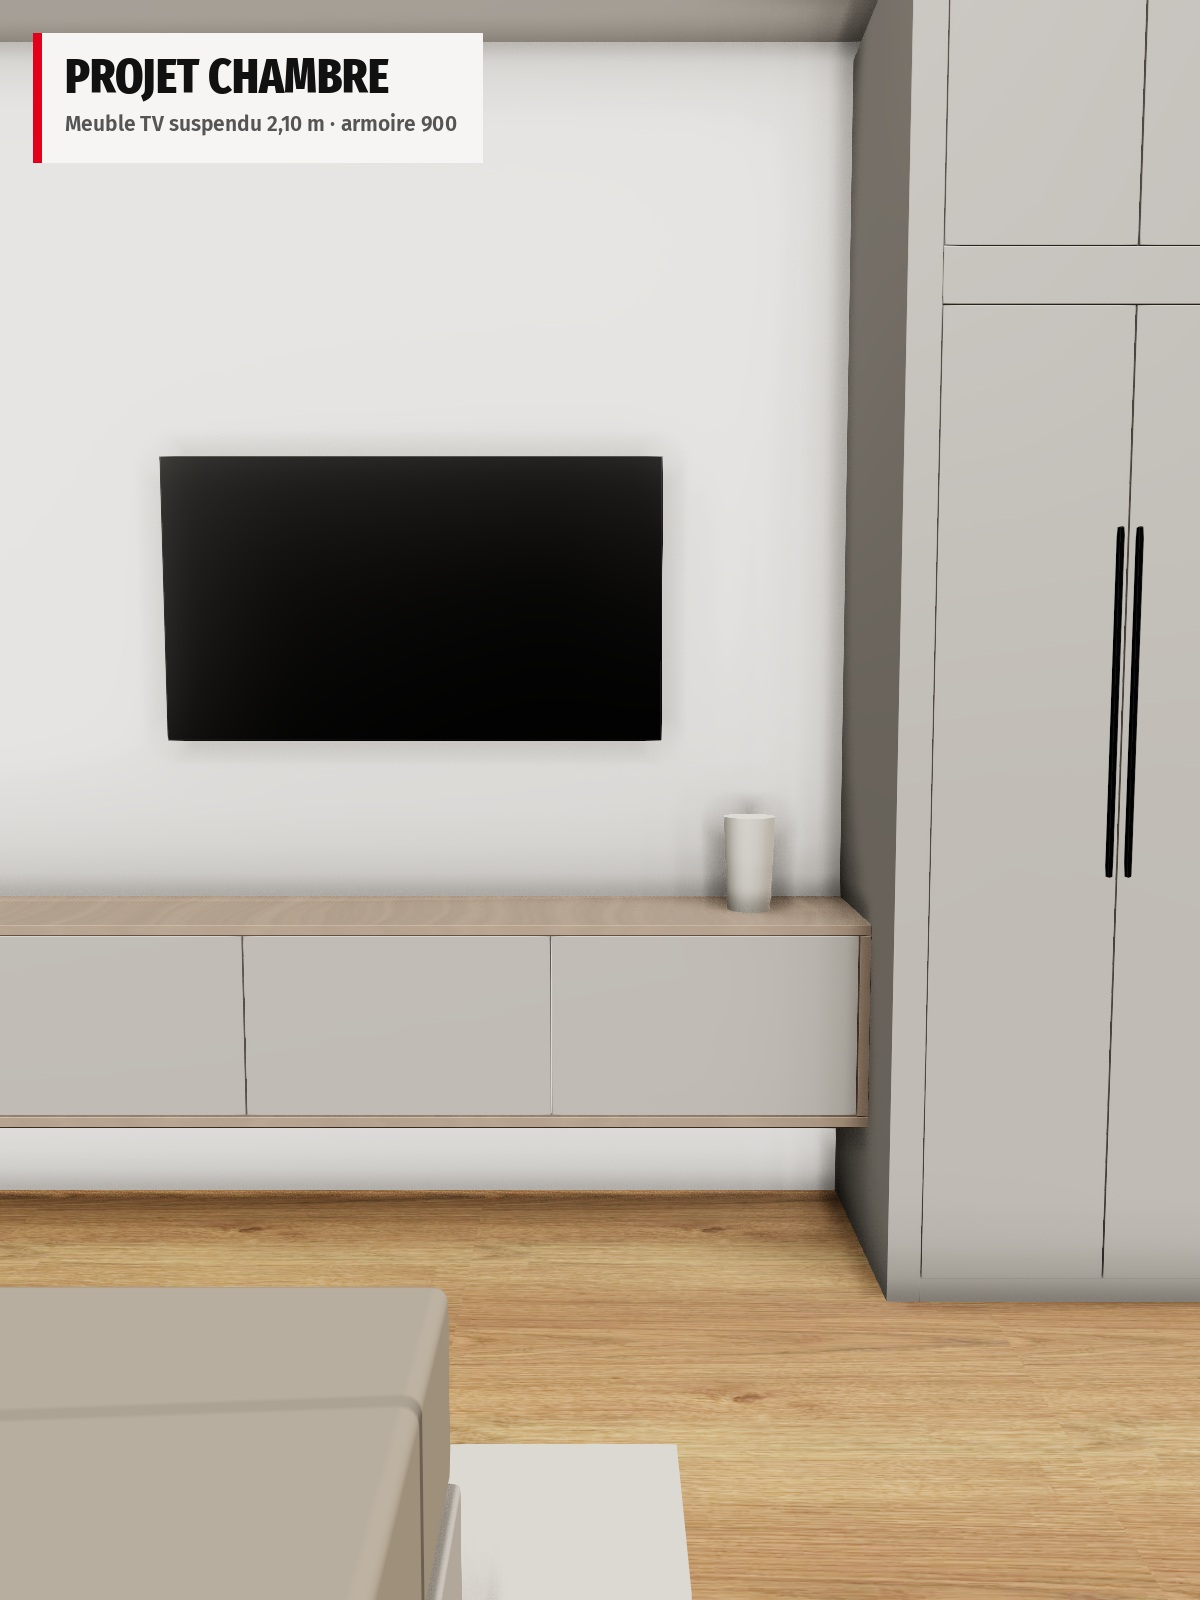
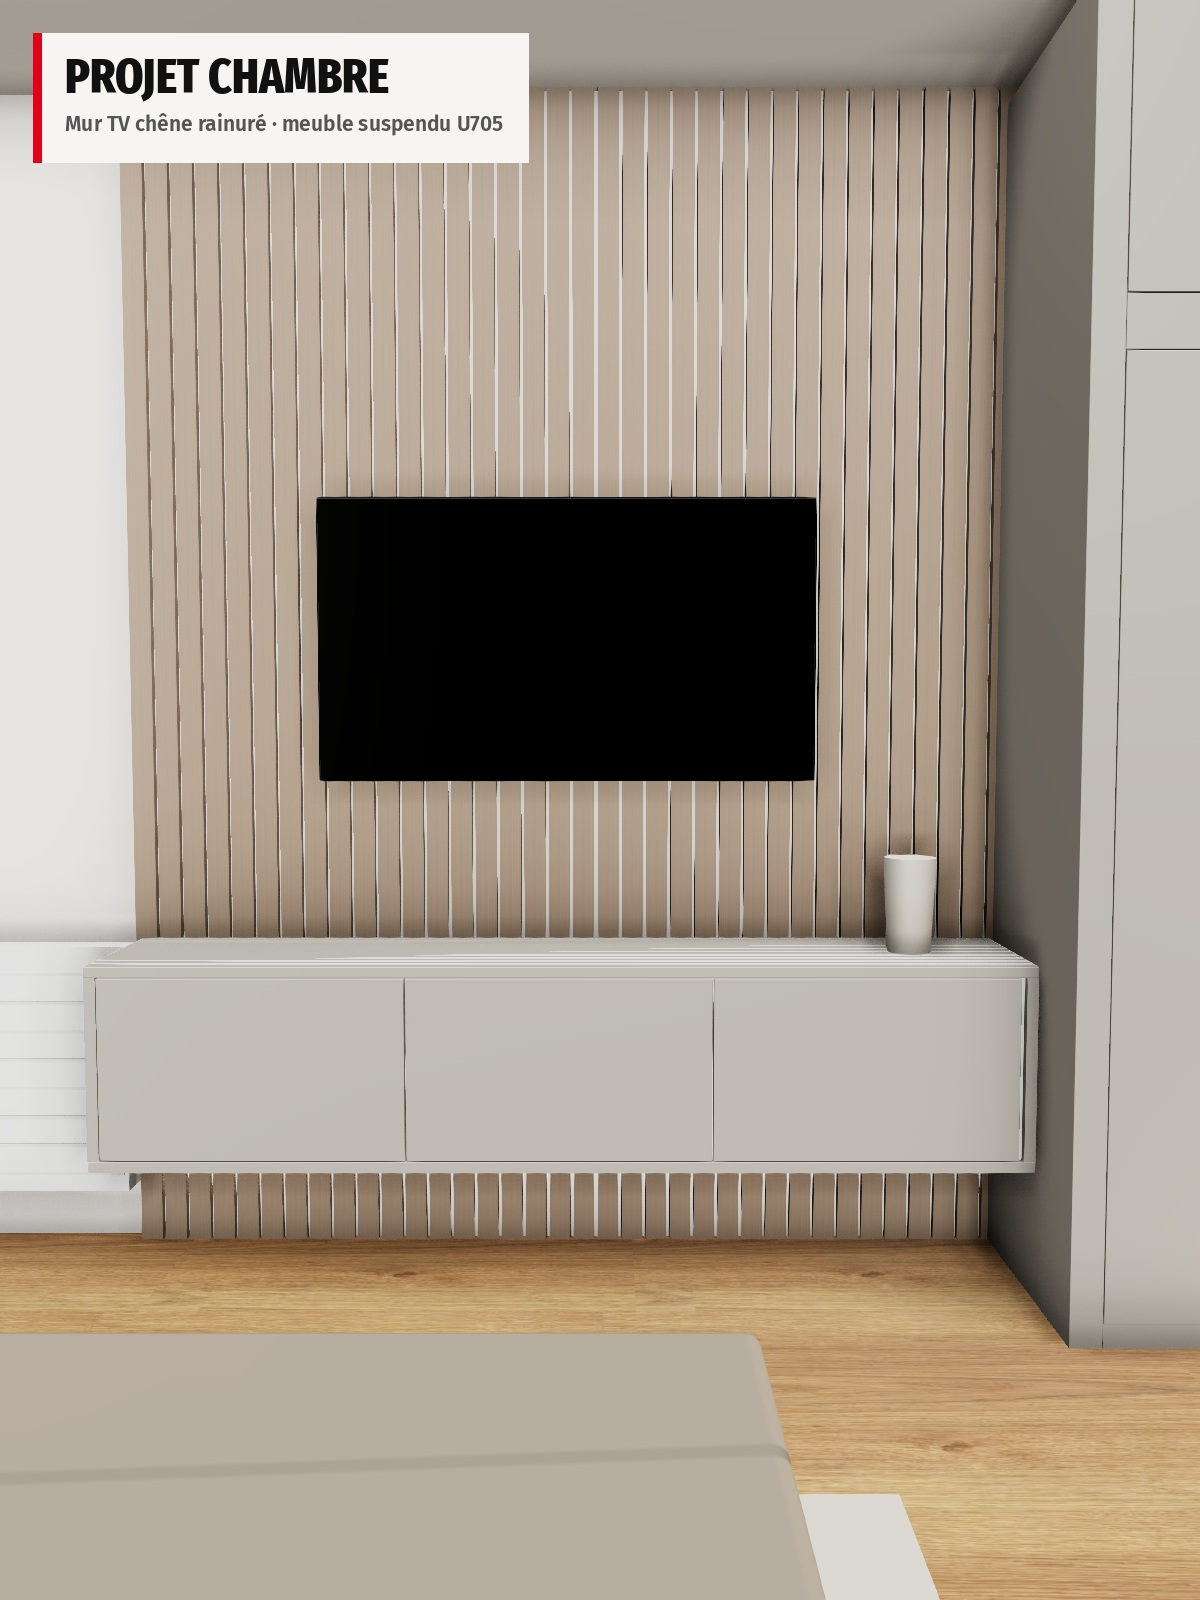
Chambre V2 niveau excellence (3D gratuite) : mur TV chêne rainuré, tête de lit murale + chevets niche, niche bureau, LED
Claude-Session: https://claude.ai/code/session_01XoeDEVkNFXq4oExWHbkpus

diff --git a/ads/meubles/chambre-H1357-U705/bedroom.html b/ads/meubles/chambre-H1357-U705/bedroom.html
@@ -103,45 +103,71 @@ frontPZ(AX0 + 70, AX0 + 450, y1, y2, AD, M.u705); frontPZ(AX0 + 450, XR - 70, y1
 frontPZ(AX0 + 70, AX0 + 450, y3, y4, AD, M.u705); frontPZ(AX0 + 450, XR - 70, y3, y4, AD, M.u705);
 bx(AX0 + 425, 900, AD + T, AX0 + 437, 1600, AD + T + 16, M.noir, 3); bx(AX0 + 463, 900, AD + T, AX0 + 475, 1600, AD + T + 16, M.noir, 3);
 
-// ---------- MEUBLE TV 2100 (suspended), x AX0-2100 .. AX0, depth 400 ----------
-const TX0 = AX0 - 2100, TD = 400, TY0 = 300, TY1 = 760;
-bx(TX0 + 25, TY0 + 25, 0, AX0 - 25, TY1 - 25, TD - 25, M.caisson);
-bx(TX0, TY1 - 25, 0, AX0, TY1, TD, M.oak, 2);                  // oak top
-bx(TX0, TY0 + 25, 0, TX0 + 25, TY1 - 25, TD, M.oak, 2); bx(AX0 - 25, TY0 + 25, 0, AX0, TY1 - 25, TD, M.oak, 2);
-bx(TX0, TY0, 0, AX0, TY0 + 25, TD, M.oak, 2);
-for (let k = 0; k < 3; k++) frontPZ(TX0 + 25 + k * 683.3, TX0 + 25 + (k + 1) * 683.3, TY0 + 25, TY1 - 25, TD - 25 - T + T, M.u705);
-// TV
-bx(TX0 + 450, 1150, 30, TX0 + 1650, 1830, 70, M.ecran, 4);
-const v1 = new THREE.Mesh(new THREE.CylinderGeometry(60, 50, 220, 32), new THREE.MeshStandardMaterial({ color: 0xe5ded2, roughness: 0.5 })); v1.position.set(TX0 + 1850, TY1 + 110, 200); v1.castShadow = true; G.add(v1);
+// LED material (warm indirect light lines)
+const LED = new THREE.MeshBasicMaterial({ color: 0xffd9a8 });
+const ledLight = (x, y, z, k = 40000, d = 1400) => { const p = new THREE.PointLight(0xffc98a, k, d, 2); p.position.set(x, y, z); sc.add(p); };
 
-// ---------- BED 1800 x 2000, headboard on bottom wall, + nightstands 500 ----------
+// ---------- TV WALL: full-height fluted oak panel H1357 + floating TV unit all U705 ----------
+const TX0 = AX0 - 2100, TD = 400, TY0 = 300, TY1 = 760;
+bx(TX0 - 20, 0, 0, AX0, CEIL, 18, M.caisson, 0, { cast: false });                         // panel backing
+for (let x = TX0 - 20; x < AX0; x += 60) bx(x + 4, 0, 18, x + 56, CEIL, 38, M.oak, 0, { cast: false }); // vertical oak flutes
+bx(TX0, TY0, 38, AX0 - 10, TY1, TD, M.caisson);
+bx(TX0, TY1 - 25, 38, AX0 - 10, TY1, TD + T, M.u705, 2);                   // U705 top
+bx(TX0, TY0, 38, AX0 - 10, TY0 + 25, TD + T, M.u705, 2);                   // U705 bottom
+bx(TX0, TY0 + 25, 38, TX0 + 25, TY1 - 25, TD + T, M.u705); bx(AX0 - 35, TY0 + 25, 38, AX0 - 10, TY1 - 25, TD + T, M.u705);
+for (let k = 0; k < 3; k++) frontPZ(TX0 + 25 + k * 676.7, TX0 + 25 + (k + 1) * 676.7, TY0 + 25, TY1 - 25, TD, M.u705);
+bx(TX0 + 40, TY0 - 6, 120, AX0 - 50, TY0 - 2, 300, LED, 0, { cast: false });              // LED under floating unit
+for (let x = TX0 + 300; x < AX0; x += 600) ledLight(x, TY0 - 60, 250, 25000, 900);
+// TV
+bx(TX0 + 450, 1150, 40, TX0 + 1650, 1830, 80, M.ecran, 4);
+const v1 = new THREE.Mesh(new THREE.CylinderGeometry(60, 50, 220, 32), new THREE.MeshStandardMaterial({ color: 0xe5ded2, roughness: 0.5 })); v1.position.set(TX0 + 1850, TY1 + 110, 220); v1.castShadow = true; G.add(v1);
+// plinth LED under the 2490 wardrobe and the 900 armoire
+bx(WD - 10, 30, z0 + 75, WD + 4, 42, ZB - 75, LED, 0, { cast: false });
+bx(AX0 + 75, 30, AD - 10, XR - 75, 42, AD + 4, LED, 0, { cast: false });
+ledLight(WD + 200, 120, 2500, 30000, 1200); ledLight(AX0 + 450, 120, AD + 200, 20000, 900);
+
+// ---------- BED 1800 x 2000 + full-width headboard wall (bed + nightstands) ----------
 const BX0 = 2400, BX1 = 4200, BZ1 = ZB, BZ0 = ZB - 2000;
-bx(BX0, 0, BZ0, BX1, 320, BZ1 - 60, M.u705, 8);                         // bed base U705
-bx(BX0 + 30, 320, BZ0 + 30, BX1 - 30, 560, BZ1 - 80, M.linge, 30);      // mattress + duvet
-bx(BX0 + 10, 330, BZ0 + 10, BX1 - 10, 580, BZ0 + 650, M.plaid, 20);     // throw at foot
-for (const x of [BX0 + 120, BX0 + 940]) bx(x, 560, BZ1 - 520, x + 740, 740, BZ1 - 120, M.coussin, 60);
-bx(BX0 - 60, 0, ZB - 80, BX1 + 60, 1150, ZB, M.oak, 6);                 // oak headboard
-for (let x = BX0; x < BX1; x += 225) bx(x + 4, 380, ZB - 92, x + 221, 1120, ZB - 78, M.oak, 4);   // vertical oak ribs
-// nightstands 500 (U705 drawer, oak top), posés
-for (const nx of [BX0 - 520, BX1 + 20]) {
-  bx(nx, 0, ZB - 420, nx + 500, 450, ZB - 20, M.caisson);
-  bx(nx, 450, ZB - 430, nx + 500, 475, ZB - 10, M.oak, 2);
-  frontNZ(nx + 5, nx + 495, 220, 445, ZB - 420 + 0, M.u705); // drawer (faces -z)
-  bx(nx + 5, 0, ZB - 420, nx + 495, 60, ZB - 405, M.oak);
-  bx(nx + 200, 330, ZB - 440 - T, nx + 300, 342, ZB - 428 - T, M.noir, 2);
-  const lamp = new THREE.Mesh(new THREE.CylinderGeometry(90, 110, 200, 32), new THREE.MeshStandardMaterial({ color: 0xfaf3e6, emissive: 0xffd9a0, emissiveIntensity: 0.6, roughness: 0.8 }));
-  lamp.position.set(nx + 250, 640, ZB - 220); G.add(lamp);
-  bx(nx + 240, 475, ZB - 230, nx + 260, 540, ZB - 210, M.noir);
-  const pl = new THREE.PointLight(0xffc98a, 50000, 1600, 2); pl.position.set(nx + 250, 650, ZB - 260); sc.add(pl);
+const HW0 = BX0 - 560, HW1 = BX1 + 560, HH = 1350;
+bx(HW0, 0, ZB - 40, HW1, HH, ZB, M.oak, 2);                                                // oak wall panel H1357
+for (let x = HW0 + 400; x < HW1 - 100; x += 466) bx(x - 3, 0, ZB - 44, x + 3, HH, ZB - 39, M.noir, 0, { cast: false }); // panel joints
+bx(HW0, HH, ZB - 60, HW1, HH + 20, ZB, M.oak, 2);                                          // top shelf/cap
+bx(HW0 + 20, HH - 4, ZB - 58, HW1 - 20, HH, ZB - 44, LED, 0, { cast: false });              // LED wash up the wall
+for (let x = HW0 + 300; x < HW1; x += 700) ledLight(x, HH + 80, ZB - 120, 22000, 1100);
+bx(BX0 - 20, 330, ZB - 120, BX1 + 20, 1150, ZB - 40, M.u705, 30);                          // upholstered U705 headboard
+bx(BX0, 0, BZ0, BX1, 320, BZ1 - 120, M.u705, 8);                                           // bed base U705
+bx(BX0 + 30, 320, BZ0 + 30, BX1 - 30, 560, BZ1 - 140, M.linge, 30);
+bx(BX0 + 10, 330, BZ0 + 10, BX1 - 10, 580, BZ0 + 650, M.plaid, 20);
+for (const x of [BX0 + 120, BX0 + 940]) bx(x, 560, BZ1 - 560, x + 740, 760, BZ1 - 160, M.coussin, 60);
+// wall sconces
+for (const sx of [HW0 + 280, HW1 - 280]) { bx(sx - 15, 1000, ZB - 60, sx + 15, 1060, ZB - 40, M.noir, 2); bx(sx - 35, 960, ZB - 170, sx + 35, 1030, ZB - 60, M.noir, 10); ledLight(sx, 950, ZB - 200, 30000, 1200); }
+// nightstands 500, posés: U705 drawer on top + open oak niche below (with LED)
+for (const nx of [BX0 - 540, BX1 + 40]) {
+  const nz0 = ZB - 460, nz1 = ZB - 40;
+  bx(nx, 0, nz0, nx + 19, 470, nz1, M.u705); bx(nx + 481, 0, nz0, nx + 500, 470, nz1, M.u705);   // sides
+  bx(nx + 19, 0, nz0, nx + 481, 60, nz1, M.u705);                                                 // base
+  bx(nx + 19, 60, nz1 - 19, nx + 481, 290, nz1, M.oak);                                           // niche back oak
+  bx(nx + 19, 60, nz0 + 40, nx + 481, 62, nz1 - 19, M.oak, 0, { cast: false });                    // niche floor oak
+  bx(nx + 30, 282, nz0 + 60, nx + 470, 286, nz1 - 40, LED, 0, { cast: false });                    // niche LED
+  ledLight(nx + 250, 200, nz0 + 120, 8000, 500);
+  bx(nx + 19, 290, nz0 + 19, nx + 481, 450, nz1, M.caisson);
+  frontNZ(nx + 21, nx + 479, 292, 448, nz0 + 19, M.u705);                                           // drawer
+  bx(nx + 190, 360, nz0 - 4, nx + 310, 372, nz0 + 2, M.noir, 2);
+  bx(nx, 450, nz0, nx + 500, 470, nz1, M.u705, 2);                                                 // top
+  const plant = new THREE.Mesh(new THREE.CylinderGeometry(55, 45, 120, 24), new THREE.MeshStandardMaterial({ color: 0xe6e0d6, roughness: 0.6 }));
+  plant.position.set(nx + 140, 530, nz0 + 200); plant.castShadow = true; G.add(plant);
+  const leaves = new THREE.Mesh(new THREE.SphereGeometry(110, 16, 12), new THREE.MeshStandardMaterial({ color: 0x5d7552, roughness: 0.8 }));
+  leaves.position.set(nx + 140, 660, nz0 + 200); leaves.scale.set(1, 0.8, 1); leaves.castShadow = true; G.add(leaves);
 }
 
-// ---------- DESK on right wall (front -x), z 2490..3750, depth 600 ----------
+// ---------- DESK niche on right wall: oak back panel + floating shelves with LED, U705 floating desk ----------
 const DZ0 = 2490, DZ1 = ZB, DD = 600, DXf = XR - DD;
-bx(DXf, 730, DZ0, XR, 768, DZ1, M.oak, 2);                                  // oak top 38
-bx(DXf + 20, 0, DZ0, XR, 730, DZ0 + 25, M.oak);                             // oak leg panel
-bx(DXf, 0, DZ1 - 430, XR, 730, DZ1, M.caisson);                             // drawer block 430
-for (const [a, b] of [[20, 250], [250, 490], [490, 725]]) frontNX(DZ1 - 430, DZ1, a, b, DXf, M.u705);
-bx(DXf + 200, 1350, DZ0 + 60, XR, 1375, DZ1 - 60, M.oak, 2);                // shelf above desk
+bx(XR - 20, 0, DZ0, XR, 2400, DZ1, M.oak, 0, { cast: false });                               // oak back panel
+bx(XR - 420, 0, DZ0 - 20, XR, 2400, DZ0, M.oak, 2);                                          // oak side panel
+bx(XR - 420, 2400, DZ0 - 20, XR, 2420, DZ1, M.oak, 2);                                       // oak top
+bx(DXf, 700, DZ0, XR - 20, 760, DZ1, M.u705, 3);                                              // floating desk top U705 (60 mm)
+frontNX(DZ0 + 20, DZ0 + 640, 702, 758, DXf, M.u705); frontNX(DZ0 + 640, DZ1 - 20, 702, 758, DXf, M.u705);   // 2 thin drawers
+for (const y of [1300, 1720]) { bx(XR - 300, y, DZ0, XR - 20, y + 38, DZ1, M.oak, 2); bx(XR - 290, y - 4, DZ0 + 20, XR - 30, y, DZ1 - 20, LED, 0, { cast: false }); ledLight(XR - 150, y - 60, (DZ0 + DZ1) / 2, 15000, 900); }
 const chair = new THREE.Group();
 const fab = new THREE.MeshStandardMaterial({ color: 0xcfc4b4, roughness: 0.95 });
 const cx = DXf - 330, cz = DZ0 + 380;
